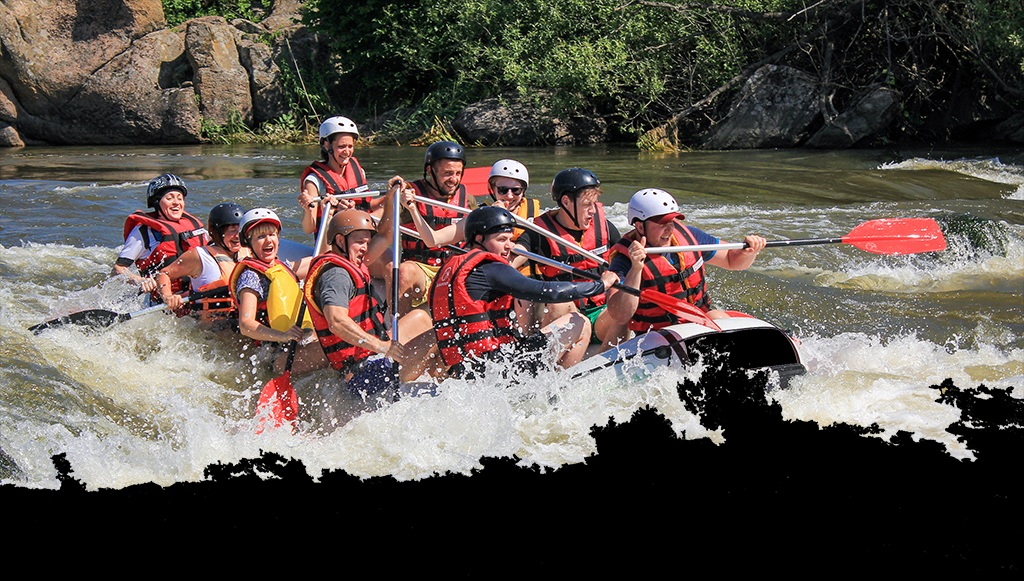
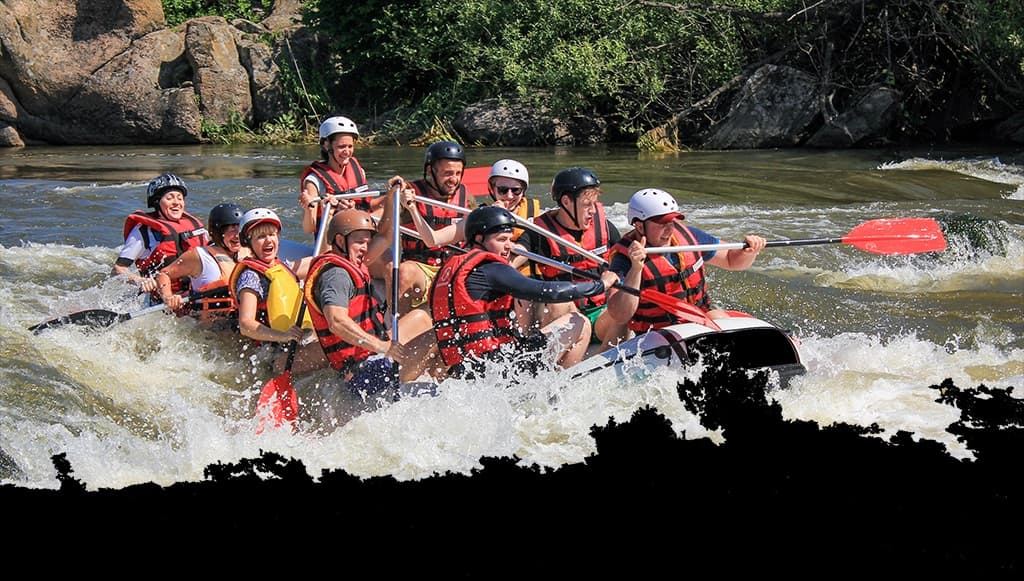
done week 03

diff --git a/wwr/about.html b/wwr/about.html
@@ -4,7 +4,7 @@
 <head>
     <meta charset="UTF-8">
     <meta name="viewport" content="width=device-width, initial-scale=1.0">
-    <title>Rafting | Whiewater Site Project</title>
+    <title>About Us | Riverbend White Water Rafting</title>
     <meta name="description" content=" Discover the eye catching white water rafting adventure with expert guides for families and friends ">
     <meta name="author" content="Shanelle Trish Taurai">
 </head>
@@ -18,7 +18,7 @@
             <a href="index.html">Home</a>
             <a href="about.html">About Us</a>
             <a href="trips.html">Trips</a>
-            <a href="contact.html">Contact</a>
+            <a href="contact.html">Contact Us</a>
         </nav>
     </header>
 
@@ -43,7 +43,7 @@
     </main>
 
     <footer>
-        <p>&copy; 2026 Riverbend White Water Rafting – Shanelle Trish Taurai</p>
+        <p>&copy; 2026 Riverbend White Water Rafting | Shanelle Trish Taurai</p>
         <nav class="socialmedia">
             <a href="https://www.facebook.com/"><img src="images/facebook.jpg" alt="Facebook" width="32" height="32"></a>
             <a href="https://www.instagram.com/"><img src="images/instagram.jpg" alt="Instagram" width="32" height="32"></a>

diff --git a/wwr/styles/rafting.css b/wwr/styles/rafting.css
@@ -52,7 +52,7 @@ header nav a:hover {
 
 }
 
-socialmedia a {
+.socialmedia a {
     text-decoration: none;
     margin: 0 6px;
 }
